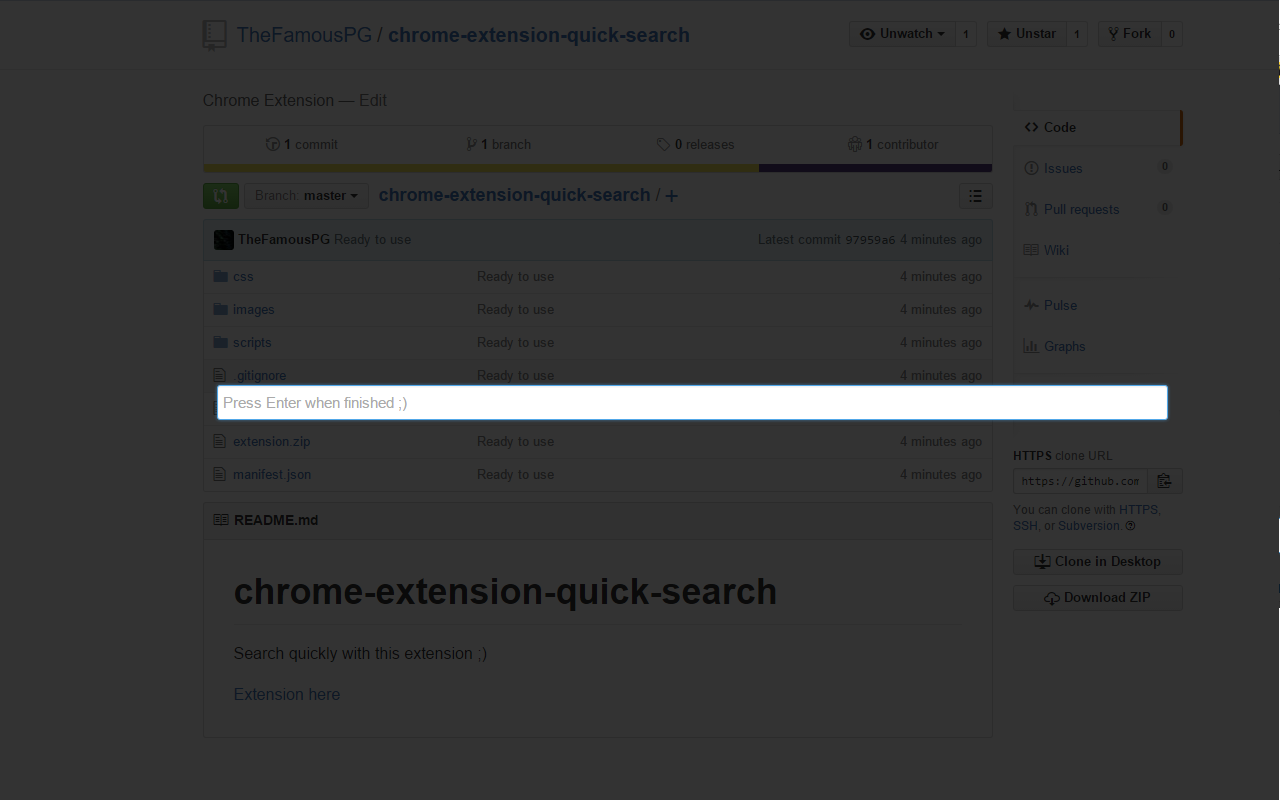
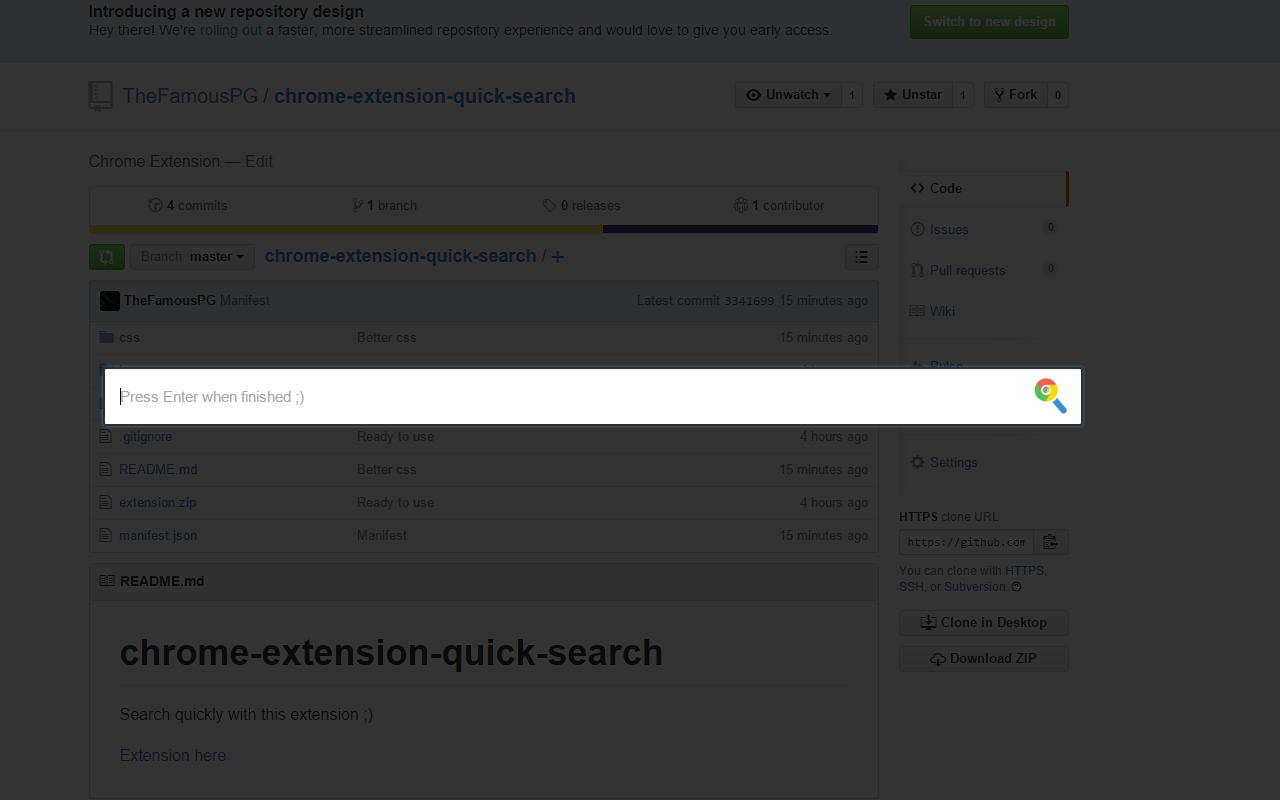
Improve speed faster 2X

diff --git a/scripts/quick-search.js b/scripts/quick-search.js
@@ -5,20 +5,18 @@ var quickSearch = {
 
     open: 0,
 
-    content: '',
-
     init: function(){
+
         $(window).keyup(function(touche){
             var key = touche.which || touche.keyCode;
             if(key == 16){// 16 = shit
                 quickSearch.open += 1;
                 if(quickSearch.open >= 2){
-                    console.log('show !');
                     quickSearch.show();
                 } else {
                     setTimeout(function(){
                         quickSearch.open = 0;
-                    },500);
+                    },250);
                 }
             }
         });
@@ -31,10 +29,9 @@ var quickSearch = {
 
     // show the popup
     show:function(){
-        quickSearch.remove();
 
+        quickSearch.remove();
         var icon = chrome.extension.getURL("images/icon128.png");
-        console.log(icon);
         $('body').prepend('<form id="chrome-extension-google-quick-search" action="https://www.google.com/search" method="GET" target="_blank"><input type="text" id="chrome-extension-google-quick-search-input" name="q" placeholder="Press Enter when finished ;)"/></form>').find('#chrome-extension-google-quick-search-input').focus().on('click',function(e){
             e.stopPropagation();
             e.preventDefault();
